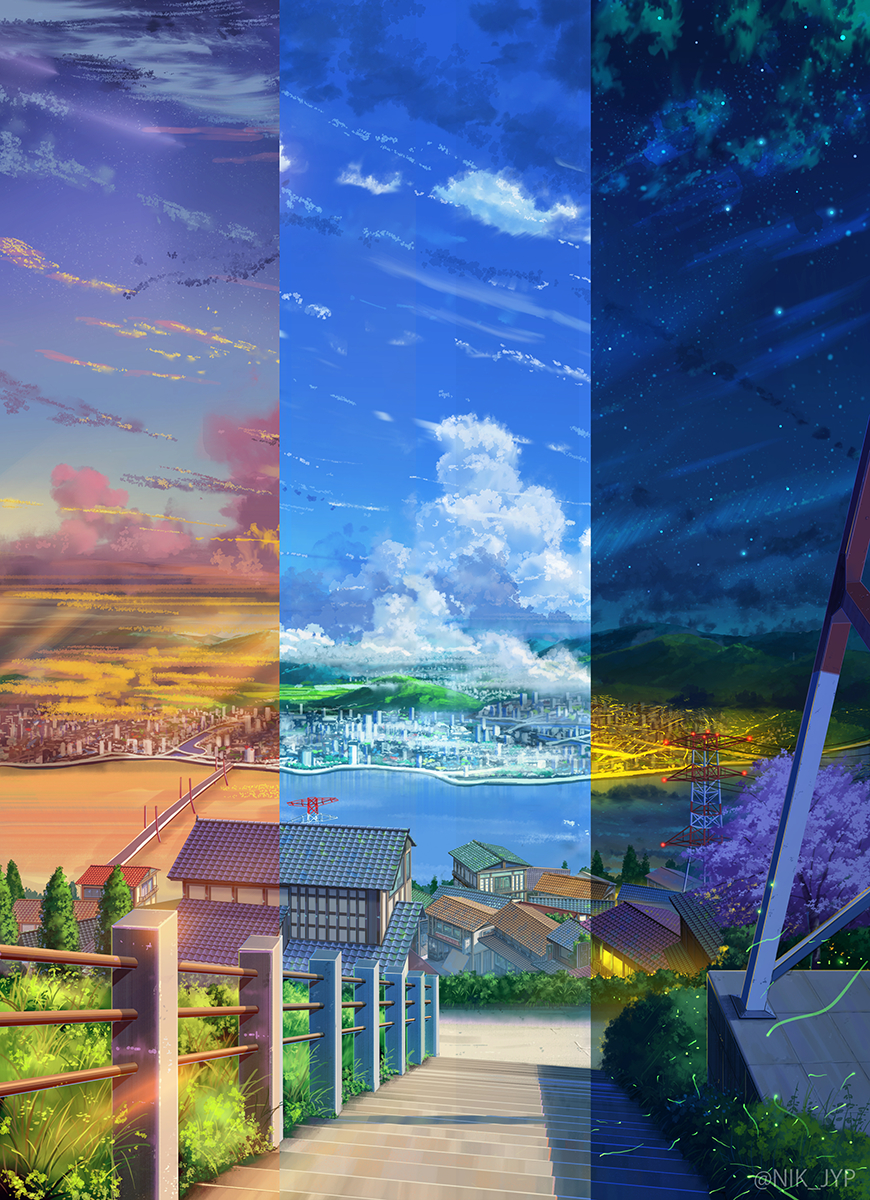
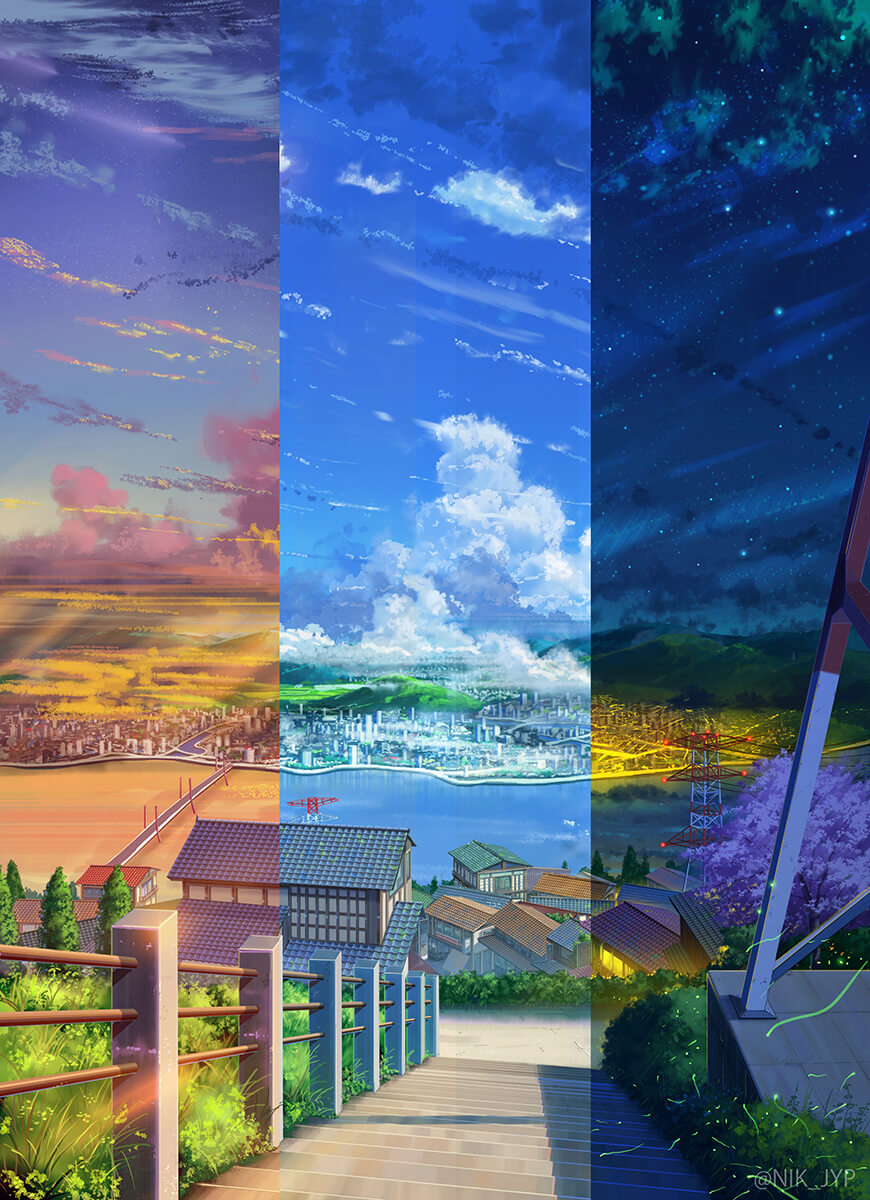
图片压缩

Changed region(s): [[0.8069, 0.6475, 0.8379, 0.6783], [0.3414, 0.6475, 0.3724, 0.6783]]

diff --git a/src/component/navigation/navigation.js b/src/component/navigation/navigation.js
@@ -19,10 +19,10 @@ class Navigation extends React.Component {
         this.state = {
             infoShow: 'none',
             tips: '这里可能出现...',
-            backgroundList:[{bg: require('./img/1.png')},{bg: require('./img/2.png')},{bg: require('./img/3.png')},{bg: require('./img/4.png')}],
-            offsetheight:document.documentElement.clientHeight,
-            nowIndex:0,           //当前在第几页
-            fullPageSlide:false,
+            backgroundList: [{bg: require('./img/1.png')},{bg: require('./img/2.png')},{bg: require('./img/3.png')},{bg: require('./img/4.png')}],
+            offsetheight: document.documentElement.clientHeight,
+            nowIndex: 0,           //当前在第几页
+            fullPageSlide: false,
             timer: null
         }
         this.reSearchShow = this.reSearchShow.bind(this)
@@ -45,18 +45,22 @@ class Navigation extends React.Component {
         if (this.timer != null) return;
         (this.state.nowIndex < this.state.backgroundList.length - 1) ?
         this.setState({nowIndex: this.state.nowIndex + 1}) :
-        this.setState({nowIndex: 0})     
+        this.setState({nowIndex: 0})
+        /*
+        let ca = this.state.backgroundList.shift()
+        this.state.backgroundList.push(ca)
+       */
         this.timer = setTimeout(()=> {
             clearTimeout(this.timer)
             this.timer = null
         },1000) 
     }
-    render() {    
+    render() {
         const navContain = this.state.backgroundList.map((item, index) => 
             <div className="nav-contain" 
                 style={{background: `center url(${item.bg}) no-repeat`,
-                backgroundSize: 'cover',
-                width: `${index === this.state.nowIndex?'100vw': '0vw'}`}} key={item.bg}>                 
+                paddingLeft: `${index > this.state.nowIndex?'0vw': '0vw'}`,
+                width: `${index === this.state.nowIndex?'100vw': '0vw'}`}} key={index}>                 
                 <div className="nav-list">
                     {index === this.state.nowIndex ? info1[this.state.nowIndex].map((item) => 
                         <div className="nav-label" key={item.name}>
@@ -65,21 +69,24 @@ class Navigation extends React.Component {
                             </div>
                         </div>
                     ) : null}
-                </div>        
+                </div>
             </div>
         )
+        const bird = 
+        <div className="bird-contain">
+            <h1 className="index">{this.state.nowIndex + 1}</h1>
+            <div className="bird"  onMouseEnter={this.reSearchShow} onMouseLeave={this.reSearchHide}>
+                <ul>
+                    {polygonBird}
+                </ul>
+                <h2 className="bird-tips">{this.state.tips}</h2>
+                <button className="bird-button" style={{display: this.state.infoShow}} onClick={this.bgScroll}>换一批</button>
+            </div>
+        </div>   
         return (
             <div className="nav">
                 {navContain}
-                <div className="bird-contain">
-                    <div className="bird"  onMouseEnter={this.reSearchShow} onMouseLeave={this.reSearchHide}>
-                        <ul>
-                            {polygonBird}
-                        </ul>
-                        <h2 className="bird-tips">{this.state.tips}</h2>
-                        <button className="bird-button" style={{display: this.state.infoShow}} onClick={this.bgScroll}>换一批</button>
-                    </div>
-                </div>   
+                {bird}
             </div>
         )
     }

diff --git a/src/component/navigation/navigation.css b/src/component/navigation/navigation.css
@@ -7,22 +7,16 @@
   }
   .nav-contain {
     display: flex;
-    width: 100vw;
     height: 100vh;
     flex-direction: row;
-    box-shadow: 0 2px 5px 2px rgba(26,26,26,.1);
-    padding-left: 1vw;
-    background-size: cover;
+    flex-grow:1;
+    box-shadow: 0 2px 5px 2px rebeccapurple;
     transition: all 1000ms ease;
   }
   .nav-contain h2 {
     color: #fff;
     font-family: 'BlocExtCond';
     font-weight: 300;
-  }
-  .nav-contain .navs {
-    display: flex;
-    
   }
   .nav-list {
     display: flex;
@@ -81,6 +75,16 @@
   .bird-contain {
     display: flex;
     flex-grow: 1;
+  }
+  .bird-contain .index {
+    position: fixed;
+    font-weight: 300;
+    text-decoration:none;
+    color: #fff;
+    font-family: 'BlocExtCond';
+    font-size: calc(9px + 2.4vmin);
+    top: 88%;
+    left: 50%;
   }
   .bird-tips {
     position: fixed;
